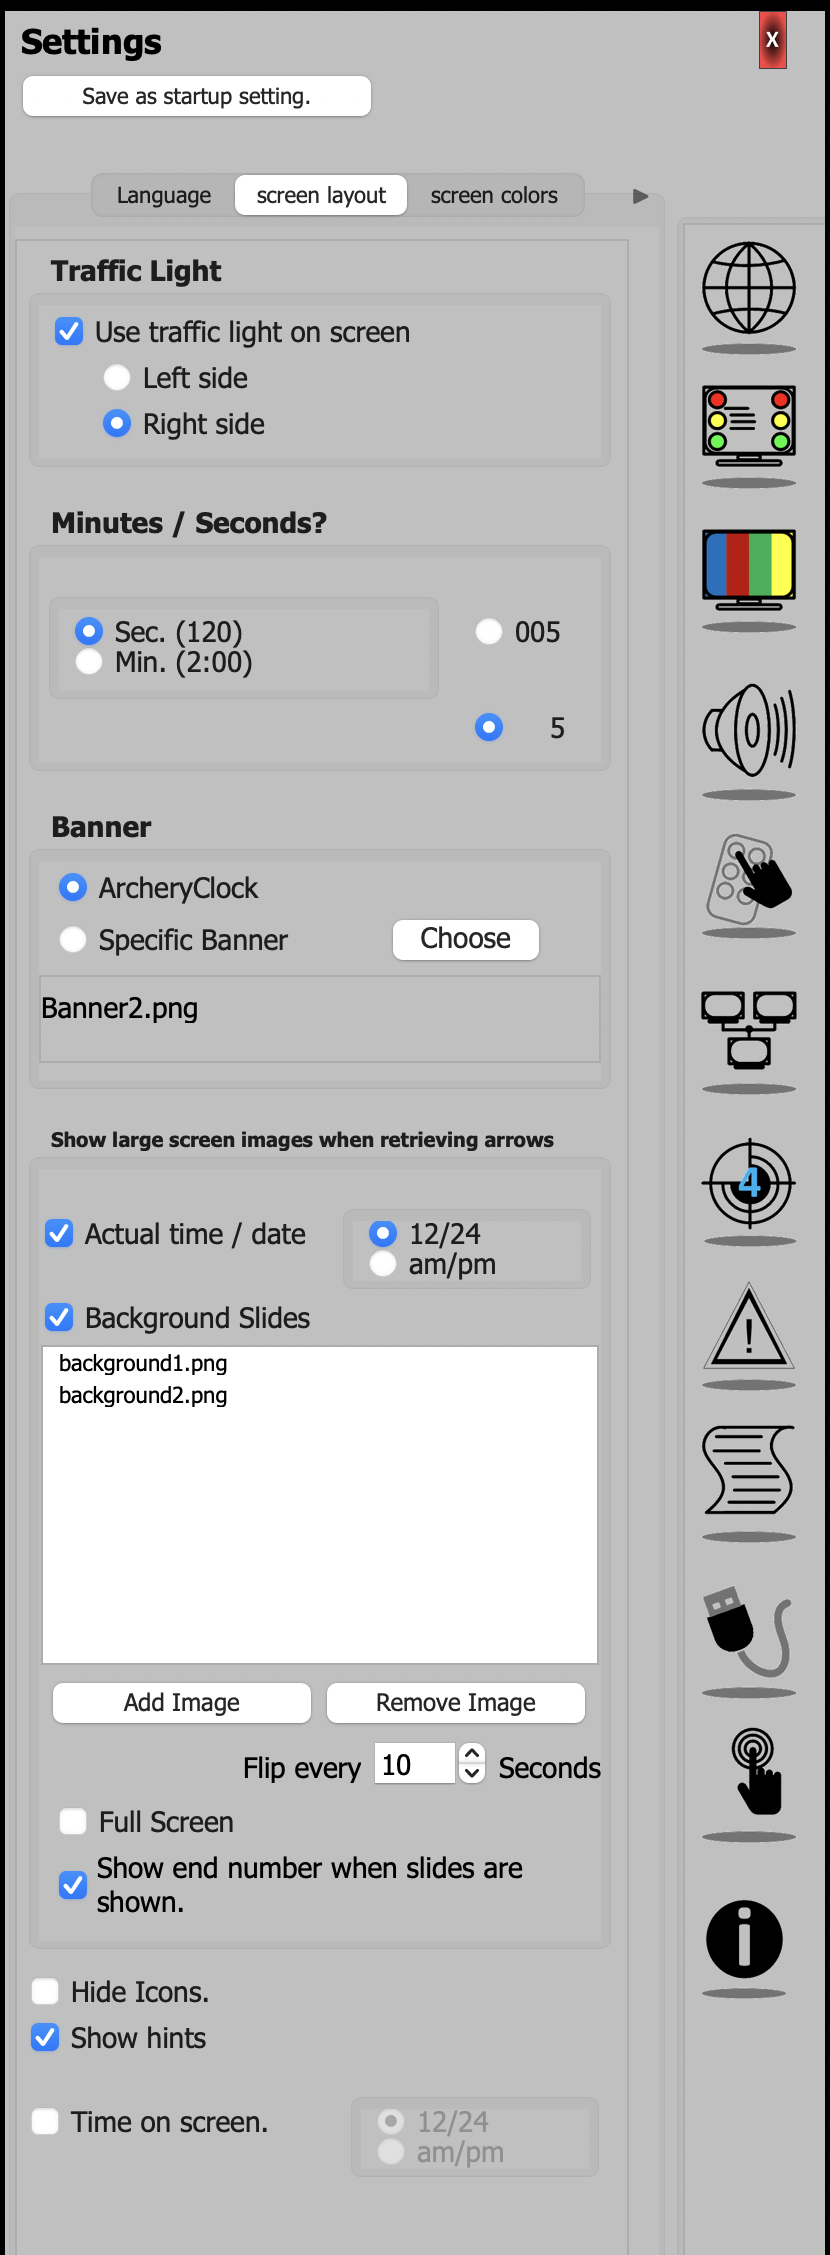
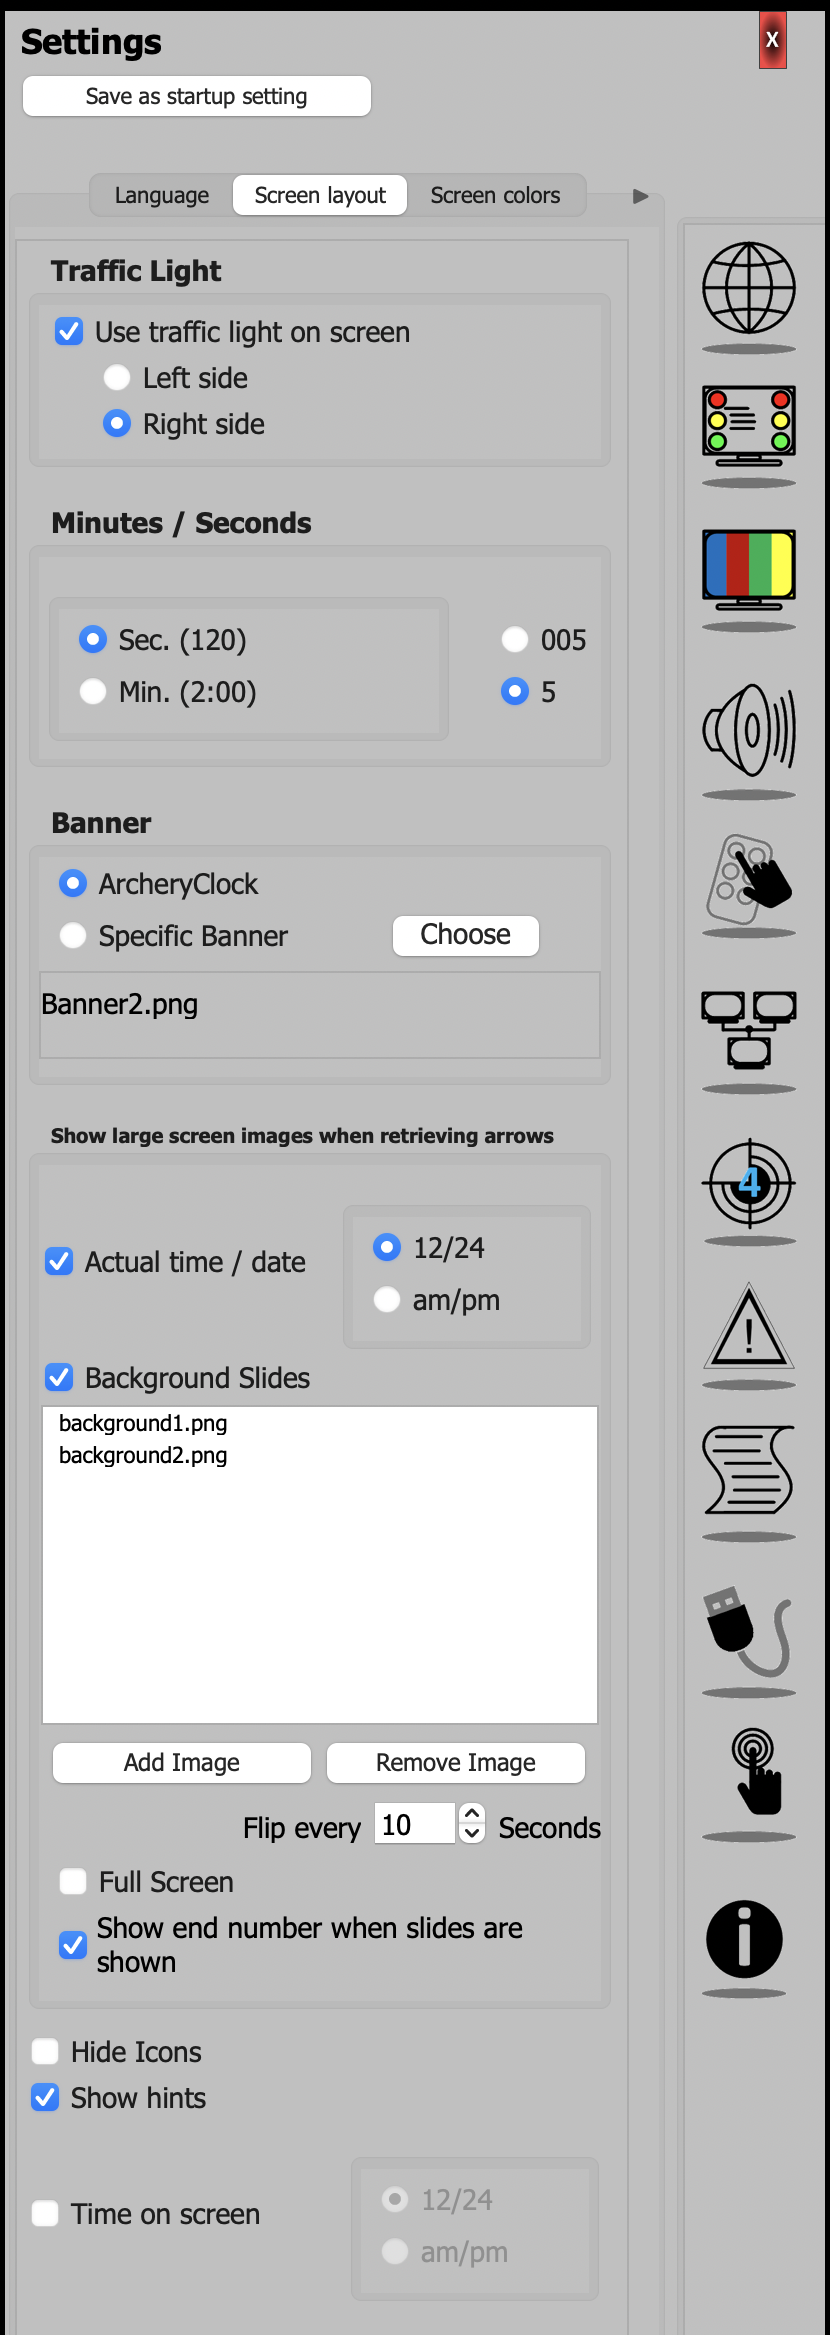
README: Classic settings shots stacked beside Timing; new Classic screenshots
Claude-Session: https://claude.ai/code/session_01RS7MUoG3u5Z3FSKFf8vGs1

diff --git a/README.md b/README.md
@@ -36,8 +36,7 @@ Archery Clock Mac Modern: Timing and Sequence, then the Screen layout, Sound and
 Archery Clock Mac Classic: the same, in the panel beside the clock as on Windows:
 
 <table>
-<tr><td width="50%" valign="top"><img src="docs/screenshots/classic-timing.png" alt="Classic: Timing and Sequence, Indoor/Outdoor" width="100%"></td><td width="50%" valign="top"><img src="docs/screenshots/classic-screen-layout.png" alt="Classic: Settings, Screen layout" width="100%"></td></tr>
-<tr><td width="50%" valign="top"><img src="docs/screenshots/classic-sound.png" alt="Classic: Settings, Sound" width="100%"></td><td width="50%" valign="top"><img src="docs/screenshots/classic-network.png" alt="Classic: Settings, Network" width="100%"></td></tr>
+<tr><td width="50%" valign="top"><img src="docs/screenshots/classic-timing.png" alt="Classic: Timing and Sequence, Indoor/Outdoor" width="100%"></td><td width="50%" valign="top"><img src="docs/screenshots/classic-screen-layout.png" alt="Classic: Settings, Screen layout" width="100%"><br><img src="docs/screenshots/classic-sound.png" alt="Classic: Settings, Sound" width="100%"><br><img src="docs/screenshots/classic-network.png" alt="Classic: Settings, Network" width="100%"></td></tr>
 </table>
 
 ## Install
